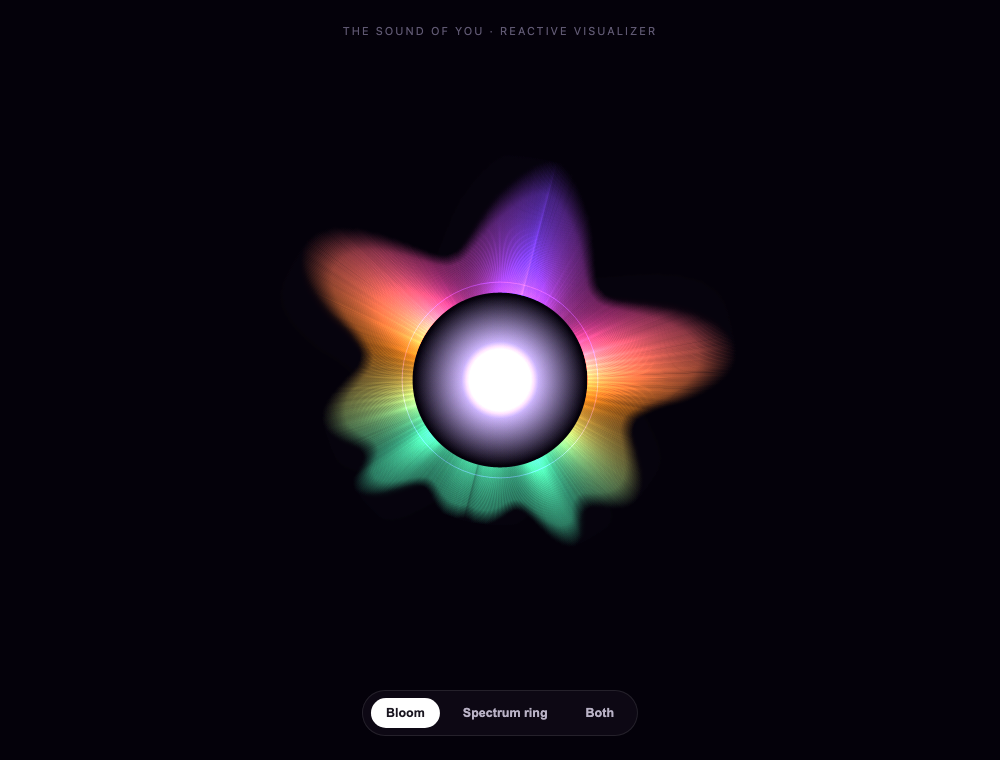
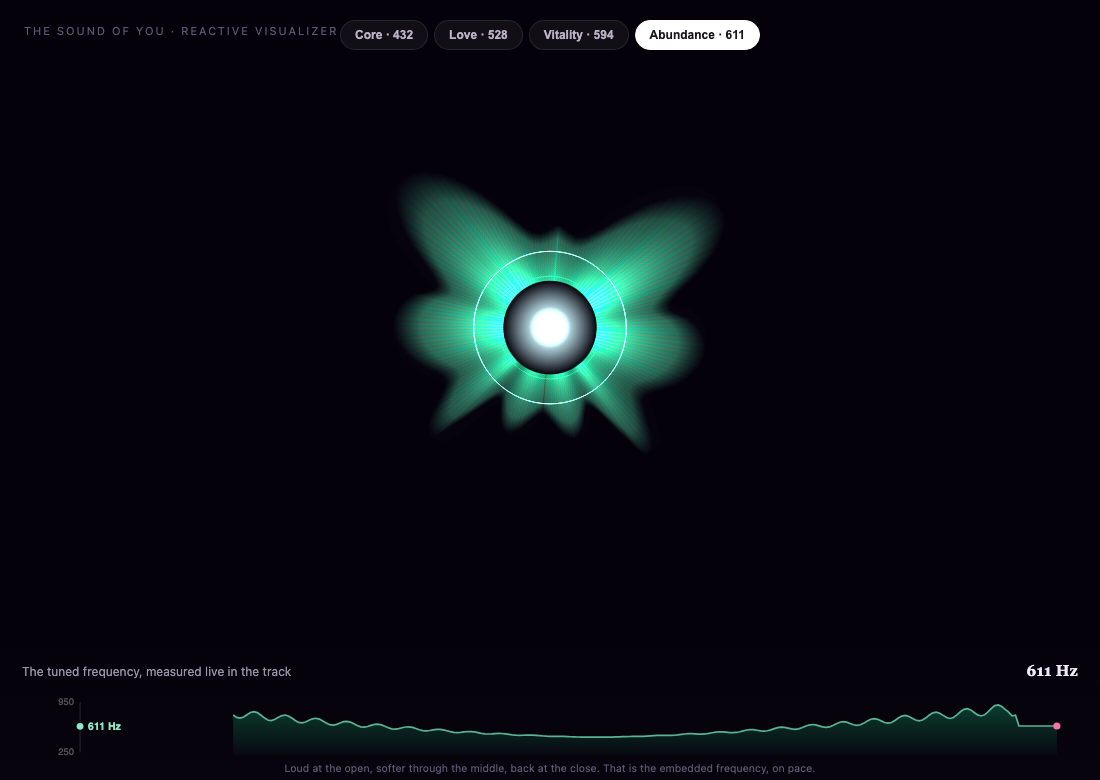
Rays v3: fine disc gains subtle per-frequency secondary glints (green + teal/gold, etc, dominant preserved); music visualizer finer + one-category-at-a-time + live tuned-frequency proof (250-950 axis, arc showing loud-soft-loud on pace)

diff --git a/explorations/rays-music.html b/explorations/rays-music.html
@@ -6,151 +6,194 @@
 <style>
 *{margin:0;padding:0;box-sizing:border-box}
 html,body{height:100%;background:#07040d;overflow:hidden;font-family:-apple-system,BlinkMacSystemFont,'Segoe UI',sans-serif}
-#c{display:block;width:100vw;height:100vh}
-.cap{position:fixed;top:24px;left:50%;transform:translateX(-50%);color:#5f5872;font-size:11px;letter-spacing:.18em;text-transform:uppercase;z-index:5}
-#start{position:fixed;inset:0;display:flex;flex-direction:column;align-items:center;justify-content:center;z-index:20;cursor:pointer;background:radial-gradient(circle at 50% 45%,rgba(30,20,44,.5),rgba(7,4,13,.9))}
+#c{display:block;width:100vw;height:100vh;position:fixed;inset:0}
+.cap{position:fixed;top:24px;left:24px;color:#5f5872;font-size:11px;letter-spacing:.18em;text-transform:uppercase;z-index:5}
+#start{position:fixed;inset:0;display:flex;flex-direction:column;align-items:center;justify-content:center;z-index:20;cursor:pointer;background:radial-gradient(circle at 50% 45%,rgba(30,20,44,.5),rgba(7,4,13,.92))}
 #start .play{width:96px;height:96px;border-radius:50%;border:1.5px solid rgba(255,255,255,.5);display:flex;align-items:center;justify-content:center;transition:.2s}
 #start:hover .play{border-color:#fff;transform:scale(1.05)}
 #start .play svg{width:34px;height:34px;fill:#fff;margin-left:5px}
 #start .t{color:#efe8f6;font-family:Georgia,serif;font-size:22px;margin-top:22px}
-#start .s{color:#8b8598;font-size:13px;margin-top:6px;letter-spacing:.02em}
-.ui{position:fixed;left:50%;bottom:24px;transform:translateX(-50%);display:flex;gap:8px;background:rgba(20,14,28,.55);backdrop-filter:blur(10px);border:1px solid rgba(255,255,255,.1);border-radius:999px;padding:7px 8px;z-index:5;opacity:0;transition:.4s}
-.ui.show{opacity:1}
-.ui button{background:transparent;border:none;color:#b9b2c6;font-size:12.5px;font-weight:600;padding:8px 15px;border-radius:999px;cursor:pointer}
-.ui button.on{background:#fff;color:#1a1620}
+#start .s{color:#8b8598;font-size:13px;margin-top:6px}
+.cats{position:fixed;top:20px;left:50%;transform:translateX(-50%);display:flex;gap:6px;z-index:6;opacity:0;transition:.4s}
+.cats.show{opacity:1}
+.cats button{background:rgba(255,255,255,.05);border:1px solid rgba(255,255,255,.1);color:#b9b2c6;font-size:12px;font-weight:600;padding:7px 14px;border-radius:999px;cursor:pointer}
+.cats button.on{background:#fff;color:#1a1620;border-color:#fff}
+/* frequency proof panel */
+#proofwrap{position:fixed;left:0;right:0;bottom:0;height:132px;z-index:6;padding:14px 22px 18px;
+  background:linear-gradient(rgba(7,4,13,0),rgba(7,4,13,.7) 40%,rgba(7,4,13,.92));opacity:0;transition:.5s}
+#proofwrap.show{opacity:1}
+.plabel{display:flex;justify-content:space-between;align-items:baseline;color:#9a93a8;font-size:12px;margin-bottom:6px}
+.plabel b{font-family:Georgia,serif;font-size:15px;color:#efe8f6}
+.plabel .hz{font-weight:700;letter-spacing:.02em}
+#proof{display:block;width:100%;height:78px}
+.note{position:fixed;bottom:6px;left:50%;transform:translateX(-50%);color:#5f5872;font-size:10.5px;z-index:6;opacity:0;transition:.5s}
+.note.show{opacity:1}
 </style></head><body>
 <canvas id="c"></canvas>
 <div class="cap">The Sound of You · reactive visualizer</div>
+<div class="cats" id="cats">
+  <button data-cat="core">Core · 432</button>
+  <button data-cat="love">Love · 528</button>
+  <button data-cat="vitality">Vitality · 594</button>
+  <button data-cat="abundance" class="on">Abundance · 611</button>
+</div>
 <div id="start">
   <div class="play"><svg viewBox="0 0 24 24"><path d="M6 4l14 8-14 8z"/></svg></div>
-  <div class="t">Play your frequencies</div>
-  <div class="s">real track · your music across the four domains</div>
+  <div class="t">Play your frequency</div>
+  <div class="s">a real track · tuned to one frequency</div>
 </div>
-<div class="ui" id="ui">
-  <button data-style="bloom" class="on">Bloom</button>
-  <button data-style="spectrum">Spectrum ring</button>
-  <button data-style="both">Both</button>
+<div id="proofwrap">
+  <div class="plabel"><span>The tuned frequency, measured live in the track</span><b class="hz" id="hzlab">611 Hz</b></div>
+  <canvas id="proof"></canvas>
 </div>
+<div class="note" id="note">Loud at the open, softer through the middle, back at the close. That is the embedded frequency, on pace.</div>
 <script>
+const PAL={
+  core:{dom:['#6521C9','#A737C8'],sec:[['#7A4AE0','#B98AF0'],['#C24FA8','#E07AC8']],hz:432,name:'Astrolith'},
+  love:{dom:['#B90044','#CF4090'],sec:[['#E8663E','#F0A070'],['#D8489A','#EE8CC0']],hz:528,name:'Elysian Surge'},
+  vitality:{dom:['#FF9112','#FFC251'],sec:[['#F0592E','#F59060'],['#FFD37A','#FFE7B0']],hz:594,name:'Quiet Success'},
+  abundance:{dom:['#12A56E','#46D99A'],sec:[['#15B8A6','#5FE0D2'],['#D9B45A','#F0D28A']],hz:611,name:'Kindred Spirits'}
+};
+let cat='abundance';
 const cv=document.getElementById('c'),x=cv.getContext('2d');
-let W,H,DPR;
-function size(){DPR=Math.min(devicePixelRatio||1,2);W=cv.width=innerWidth*DPR;H=cv.height=innerHeight*DPR;cv.style.width=innerWidth+'px';cv.style.height=innerHeight+'px';}
+const pf=document.getElementById('proof'),px=pf.getContext('2d');
+let W,H,DPR,PW,PH;
+function size(){DPR=Math.min(devicePixelRatio||1,2);
+  W=cv.width=innerWidth*DPR;H=cv.height=innerHeight*DPR;cv.style.width=innerWidth+'px';cv.style.height=innerHeight+'px';
+  PW=pf.width=pf.clientWidth*DPR;PH=pf.height=pf.clientHeight*DPR;}
 size();addEventListener('resize',size);
-
-// four frequency colours (bright ends for glow on black) mapped to the four spectral bands
-const BANDS=[[103,55,201],[220,64,144],[255,145,18],[70,217,154]]; // Core, Love, Vitality, Abundance
+function hx(h){h=h.replace('#','');return [parseInt(h.slice(0,2),16),parseInt(h.slice(2,4),16),parseInt(h.slice(4,6),16)];}
 function mix(a,b,t){return a.map((v,i)=>v+(b[i]-v)*t);}
-function bandColor(p){ const f=p*4, i=Math.min(3,Math.floor(f)), t=f-i; return mix(BANDS[i],BANDS[Math.min(3,i+1)],t); }
 function rgba(c,a){return `rgba(${c[0]|0},${c[1]|0},${c[2]|0},${a})`;}
 
-let style='bloom';
-document.querySelectorAll('[data-style]').forEach(b=>b.onclick=()=>{style=b.dataset.style;
-  document.querySelectorAll('[data-style]').forEach(o=>o.classList.toggle('on',o===b));});
-
 // ---- audio ----
-let an, freqData, timeData, playing=false, fake=false, t0=performance.now();
-const NB=512; // bins we visualise
+let an, freqData, timeData, playing=false, fake=false, t0=performance.now(), sampleRate=44100;
+const NB=640;
+let targetHist=new Float32Array(240), thi=0;   // rolling history of the tuned-frequency level
 function startAudio(){
-  const AC=window.AudioContext||window.webkitAudioContext;
-  const ac=new AC();
-  const audio=new Audio('../inapp/elysian-sky-600hz.mp3');
-  audio.crossOrigin='anonymous'; audio.loop=true;
-  const srcN=ac.createMediaElementSource(audio);
-  an=ac.createAnalyser(); an.fftSize=2048; an.smoothingTimeConstant=0.82;
-  srcN.connect(an); an.connect(ac.destination);
-  freqData=new Uint8Array(an.frequencyBinCount); timeData=new Uint8Array(an.fftSize);
-  ac.resume();
-  audio.play().then(()=>{playing=true;}).catch(()=>{startFake();});
-  audio.onerror=startFake;
+  try{
+    const AC=window.AudioContext||window.webkitAudioContext; const ac=new AC(); sampleRate=ac.sampleRate;
+    const audio=new Audio('../inapp/'+ (cat==='abundance'?'elysian-sky-600hz.mp3':'elysian-sky-600hz.mp3'));
+    audio.crossOrigin='anonymous'; audio.loop=true;
+    const srcN=ac.createMediaElementSource(audio);
+    an=ac.createAnalyser(); an.fftSize=4096; an.smoothingTimeConstant=0.8;
+    srcN.connect(an); an.connect(ac.destination);
+    freqData=new Uint8Array(an.frequencyBinCount); timeData=new Uint8Array(an.fftSize);
+    ac.resume(); audio.play().then(()=>playing=true).catch(startFake); audio.onerror=startFake;
+  }catch(e){ startFake(); }
 }
-function startFake(){ // graceful demo if audio can't load
-  fake=true; playing=true;
-  freqData=new Uint8Array(NB); timeData=new Uint8Array(NB);
-}
+function startFake(){ fake=true; playing=true; freqData=new Uint8Array(NB); timeData=new Uint8Array(NB); }
 function readFake(){
-  const tt=(performance.now()-t0)/1000;
-  const beat=0.6+0.4*Math.max(0,Math.sin(tt*2.2));
-  for(let i=0;i<NB;i++){
-    const f=i/NB;
-    let v=150*Math.exp(-f*2.2)*(0.55+0.45*Math.sin(tt*3+f*18)); // full but bass-leaning
-    v+=90*Math.exp(-Math.abs(f-0.35)*7)*(0.5+0.5*Math.sin(tt*5+f*22));
+  const tt=(performance.now()-t0)/1000; const beat=0.6+0.4*Math.max(0,Math.sin(tt*2.2));
+  for(let i=0;i<NB;i++){ const f=i/NB;
+    let v=150*Math.exp(-f*2.4)*(0.55+0.45*Math.sin(tt*3+f*18));
+    v+=95*Math.exp(-Math.abs(f-0.34)*7)*(0.5+0.5*Math.sin(tt*5+f*22));
     v+=70*Math.exp(-Math.abs(f-0.7)*9)*(0.5+0.5*Math.sin(tt*8-f*30));
-    v*=beat;
-    freqData[i]=Math.min(255,v);
+    v*=beat; freqData[i]=Math.min(255,v);
     timeData[i]=128+80*Math.sin(tt*6+i*0.35)*Math.exp(-i/NB*1.4);
   }
 }
-document.getElementById('start').onclick=function(){ this.style.display='none'; document.getElementById('ui').classList.add('show'); startAudio(); };
-if(new URLSearchParams(location.search).has('demo')){ document.getElementById('start').style.display='none'; document.getElementById('ui').classList.add('show'); startFake(); }
-
-function sample(arr,n){ // resample lower part of spectrum (where music lives) into n bins, sqrt-spaced
-  const out=new Float32Array(n); const src=fake?arr.length:Math.floor(arr.length*0.55);
-  for(let i=0;i<n;i++){ const p=Math.pow(i/n,1.35); const idx=Math.min(arr.length-1,Math.floor(p*src)); out[i]=arr[idx]/255; }
-  return out;
+// the tuned-frequency level: real = amplitude at the target bin; fake = the U-shaped arc
+function targetLevel(){
+  if(fake){ const songT=((performance.now()-t0)/1000)%26/26;   // 26s demo loop
+    const U=0.35+0.65*Math.pow(Math.abs(songT-0.5)*2,1.6);      // loud ends, soft middle
+    return Math.min(1,U*(0.7+0.3*Math.max(0,Math.sin((performance.now()-t0)/1000*3)))); }
+  const hz=PAL[cat].hz; const bin=Math.round(hz/(sampleRate/2)*freqData.length);
+  let s=0,n=0; for(let k=-2;k<=2;k++){const b=bin+k; if(b>=0&&b<freqData.length){s+=freqData[b];n++;}}
+  return (s/Math.max(1,n))/255;
 }
-let rot=0, smoothBass=0;
+document.getElementById('start').onclick=function(){ this.style.display='none';
+  document.getElementById('cats').classList.add('show'); document.getElementById('proofwrap').classList.add('show'); document.getElementById('note').classList.add('show');
+  startAudio(); };
+if(new URLSearchParams(location.search).has('demo')){ document.getElementById('start').style.display='none';
+  ['cats','proofwrap','note'].forEach(id=>document.getElementById(id).classList.add('show')); startFake();
+  for(let i=0;i<targetHist.length;i++){ const s=i/(targetHist.length-1); targetHist[i]=0.32+0.6*Math.pow(Math.abs(s-0.5)*2,1.5)*(0.85+0.15*Math.sin(i*0.7)); } thi=0; }
+document.querySelectorAll('[data-cat]').forEach(b=>b.onclick=()=>{cat=b.dataset.cat;
+  document.querySelectorAll('[data-cat]').forEach(o=>o.classList.toggle('on',o===b));
+  document.getElementById('hzlab').textContent=PAL[cat].hz+' Hz';});
+
+function sample(arr,n){ const out=new Float32Array(n); const src=fake?arr.length:Math.floor(arr.length*0.5);
+  for(let i=0;i<n;i++){ const p=Math.pow(i/n,1.35); out[i]=arr[Math.min(arr.length-1,Math.floor(p*src))]/255; } return out; }
+
+let rot=0, smoothBass=0, frameC=0;
 function frame(){
-  x.fillStyle='rgba(7,4,13,0.30)'; x.fillRect(0,0,W,H); // motion trails
+  x.fillStyle='rgba(7,4,13,0.32)'; x.fillRect(0,0,W,H);
   if(playing){
     if(fake) readFake(); else an.getByteFrequencyData(freqData);
-    const cx=W/2, cy=H/2, base=Math.min(W,H);
-    const spec=sample(freqData, NB);
+    const cx=W/2, cy=H*0.42, base=Math.min(W,H);
+    const P=PAL[cat], dom0=hx(P.dom[0]),dom1=hx(P.dom[1]);
+    const s0a=hx(P.sec[0][0]),s0b=hx(P.sec[0][1]),s1a=hx(P.sec[1][0]),s1b=hx(P.sec[1][1]);
+    const spec=sample(freqData,NB);
     let bass=0; for(let i=0;i<24;i++) bass+=spec[i]; bass/=24; smoothBass+=(bass-smoothBass)*0.2;
-    rot += 0.0014 + smoothBass*0.016;
+    rot+=0.0011+smoothBass*0.014;
+    const tgt=targetLevel();
+    // record target history for the proof trace
+    if(frameC++%3===0){ targetHist[thi%targetHist.length]=tgt; thi++; }
+
     x.globalCompositeOperation='lighter';
-
-    const r0=base*0.115;
-    // faint base ring so there is always a disc silhouette
-    x.strokeStyle=rgba(BANDS[0],0.12); x.lineWidth=Math.max(1,base*0.001);
-    x.beginPath(); x.arc(cx,cy,r0*1.12,0,7); x.stroke();
-
-    if(style==='bloom'||style==='both'){
-      // symmetric reactive star: bass at the poles, treble to the sides, mirrored L/R
-      const half=NB;
-      for(let i=0;i<half;i++){
-        const frac=i/half;                 // 0 (bass) .. 1 (treble)
-        const amp=spec[i];
-        const col=bandColor(frac);
-        const len=r0 + base*(0.05 + 0.40*amp);
-        for(const s of [1,-1]){
-          const a=-Math.PI/2 + s*frac*Math.PI + rot;   // top pole -> down each side
-          const x1=cx+Math.cos(a)*r0, y1=cy+Math.sin(a)*r0;
-          const x2=cx+Math.cos(a)*len, y2=cy+Math.sin(a)*len;
-          const g=x.createLinearGradient(x1,y1,x2,y2);
-          g.addColorStop(0,rgba(col,0.10+0.55*amp)); g.addColorStop(0.75,rgba(col,0.10+0.25*amp)); g.addColorStop(1,rgba(col,0));
-          x.strokeStyle=g; x.lineWidth=Math.max(0.7,base*0.0015);
-          x.beginPath(); x.moveTo(x1,y1); x.lineTo(x2,y2); x.stroke();
-          if(amp>0.6){ x.fillStyle=rgba(mix(col,[255,255,255],0.45),(amp-0.6)*0.8);
-            x.beginPath(); x.arc(x2,y2,base*0.002,0,7); x.fill(); }
-        }
+    const r0=base*0.06;
+    // base ring
+    x.strokeStyle=rgba(dom0,0.12); x.lineWidth=Math.max(1,base*0.0008);
+    x.beginPath(); x.arc(cx,cy,r0*1.1,0,7); x.stroke();
+    // finer symmetric reactive star: category-dominant with a few secondary glints
+    const half=NB;
+    for(let i=0;i<half;i++){
+      const frac=i/half, amp=spec[i];
+      let cA=dom0,cB=dom1,mul=1;
+      if(i%7===0){cA=s0a;cB=s0b;mul=0.75;} else if(i%11===0){cA=s1a;cB=s1b;mul=0.75;}
+      const len=r0+base*(0.04+0.37*amp);
+      for(const s of [1,-1]){
+        const a=-Math.PI/2+s*frac*Math.PI+rot;
+        const x1=cx+Math.cos(a)*r0,y1=cy+Math.sin(a)*r0,x2=cx+Math.cos(a)*len,y2=cy+Math.sin(a)*len;
+        const g=x.createLinearGradient(x1,y1,x2,y2);
+        g.addColorStop(0,rgba(cA,(0.09+0.5*amp)*mul)); g.addColorStop(0.75,rgba(cB,(0.06+0.22*amp)*mul)); g.addColorStop(1,rgba(cB,0));
+        x.strokeStyle=g; x.lineWidth=Math.max(0.6,base*0.0011);   // finer
+        x.beginPath(); x.moveTo(x1,y1); x.lineTo(x2,y2); x.stroke();
+        if(amp>0.62){ x.fillStyle=rgba(mix(cB,[255,255,255],0.4),(amp-0.62)*0.7); x.beginPath(); x.arc(x2,y2,base*0.0016,0,7); x.fill(); }
       }
     }
-    if(style==='spectrum'||style==='both'){
-      if(!fake) an.getByteTimeDomainData(timeData);
-      const RR=base*(0.28+0.06*smoothBass); const steps=200; const L=fake?NB:timeData.length;
-      x.beginPath();
-      for(let i=0;i<=steps;i++){
-        const a=i/steps*Math.PI*2 + rot*0.5;
-        const ti=Math.floor(i/steps*L)%L;
-        const w=(timeData[ti]-128)/128;
-        const rr=RR*(1+0.18*w);
-        const px=cx+Math.cos(a)*rr, py=cy+Math.sin(a)*rr;
-        i?x.lineTo(px,py):x.moveTo(px,py);
-      }
-      x.closePath();
-      x.strokeStyle=rgba(mix(BANDS[3],[255,255,255],0.3),0.55); x.lineWidth=Math.max(1,base*0.0016); x.stroke();
-      x.strokeStyle=rgba(BANDS[0],0.3); x.lineWidth=Math.max(1,base*0.001); x.stroke();
-    }
-
-    // tight jewel core (bass) — small, not a white wash
-    const cr=base*(0.028+0.05*smoothBass);
-    const cg=x.createRadialGradient(cx,cy,0,cx,cy,cr*2.6);
-    const cc=mix([240,232,255],BANDS[0],0.3);
+    // a subtle inner ring hugging the core, brightening with the tuned-frequency level (proof, in the art)
+    const tr=r0*(1.5+0.25*tgt);
+    x.strokeStyle=rgba(mix(dom1,[255,255,255],0.45),0.12+0.5*tgt); x.lineWidth=Math.max(1,base*0.0012);
+    x.beginPath(); x.arc(cx,cy,tr,0,7); x.stroke();
+    // tight core
+    const cr=base*(0.02+0.04*smoothBass);
+    const cg=x.createRadialGradient(cx,cy,0,cx,cy,cr*2.6); const cc=mix([240,232,255],dom0,0.3);
     cg.addColorStop(0,rgba(cc,0.95)); cg.addColorStop(0.45,rgba(cc,0.3)); cg.addColorStop(1,rgba(cc,0));
     x.fillStyle=cg; x.beginPath(); x.arc(cx,cy,cr*2.6,0,7); x.fill();
     x.globalCompositeOperation='source-over';
+    drawProof(P);
   }
   requestAnimationFrame(frame);
+}
+// the app-style proof: 250-950 axis on the left with the target tick highlighted, and a live trace of the tuned frequency over time
+function drawProof(P){
+  px.clearRect(0,0,PW,PH);
+  const dom0=hx(P.dom[0]),dom1=hx(P.dom[1]);
+  // left: a small 250-950 pitch scale showing WHERE the tuned frequency sits (echoes the app)
+  const axX=PW*0.055, lo=250,hi=950, yFor=v=>PH*0.86-(v-lo)/(hi-lo)*PH*0.64;
+  px.strokeStyle='rgba(255,255,255,.14)'; px.lineWidth=DPR;
+  px.beginPath(); px.moveTo(axX,yFor(hi)); px.lineTo(axX,yFor(lo)); px.stroke();
+  px.fillStyle='rgba(255,255,255,.30)'; px.font=(9.5*DPR)+'px -apple-system,sans-serif'; px.textAlign='right';
+  [250,950].forEach(v=>px.fillText(v,axX-6*DPR,yFor(v)+3*DPR));
+  const ty=yFor(P.hz);   // target tick on the pitch scale
+  px.fillStyle=rgba(mix(dom1,[255,255,255],0.4),1); px.beginPath(); px.arc(axX,ty,3.4*DPR,0,7); px.fill();
+  px.font=('700 '+(10.5*DPR)+'px -apple-system,sans-serif'); px.textAlign='left';
+  px.fillText(P.hz+' Hz',axX+8*DPR,ty+3.5*DPR);
+  // main: the tuned frequency's LEVEL over the song timeline (loud ends, soft middle = the arc)
+  const gx0=PW*0.20, gw=PW-gx0-PW*0.02, yB=PH*0.9;
+  const n=targetHist.length;
+  px.beginPath(); px.moveTo(gx0,yB);
+  for(let i=0;i<n;i++){ const lvl=targetHist[(thi+i)%n]; px.lineTo(gx0+i/(n-1)*gw, yB-lvl*PH*0.72); }
+  px.lineTo(gx0+gw,yB); px.closePath();
+  const fg=px.createLinearGradient(0,yB-PH*0.72,0,yB); fg.addColorStop(0,rgba(dom0,0.4)); fg.addColorStop(1,rgba(dom0,0.03));
+  px.fillStyle=fg; px.fill();
+  px.beginPath();
+  for(let i=0;i<n;i++){ const lvl=targetHist[(thi+i)%n]; const gx=gx0+i/(n-1)*gw, gy=yB-lvl*PH*0.72; i?px.lineTo(gx,gy):px.moveTo(gx,gy); }
+  px.strokeStyle=rgba(mix(dom0,[255,255,255],0.35),0.9); px.lineWidth=1.7*DPR; px.stroke();
+  // playing-now dot (pink)
+  const cur=targetHist[(thi-1+n)%n], gy=yB-cur*PH*0.72;
+  px.fillStyle='rgba(255,120,180,0.95)'; px.beginPath(); px.arc(gx0+gw,gy,3.6*DPR,0,7); px.fill();
 }
 requestAnimationFrame(frame);
 </script>

diff --git a/explorations/rays-fine.html b/explorations/rays-fine.html
@@ -43,6 +43,13 @@ canvas{display:block}
 
 <script>
 const FR={core:['#6521C9','#A737C8'],love:['#B90044','#CF4090'],vitality:['#FF9112','#FFC251'],abundance:['#12A56E','#46D99A']};
+// one or two subtle secondary hues per frequency — woven into a few rays only, so it stays dominant
+const SEC={
+  core:[['#7A4AE0','#B98AF0'],['#C24FA8','#E07AC8']],       // indigo glint, magenta glint
+  love:[['#E8663E','#F0A070'],['#D8489A','#EE8CC0']],       // coral glint, magenta glint
+  vitality:[['#F0592E','#F59060'],['#FFD37A','#FFE7B0']],   // coral glint, gold glint
+  abundance:[['#15B8A6','#5FE0D2'],['#D9B45A','#F0D28A']]   // teal glint, gold glint
+};
 const LAB={core:'Core',love:'Love',vitality:'Vitality',abundance:'Abundance'};
 let freq='abundance', t0=performance.now();
 function hx(h){h=h.replace('#','');return [parseInt(h.slice(0,2),16),parseInt(h.slice(2,4),16),parseInt(h.slice(4,6),16)];}
@@ -73,6 +80,7 @@ function drawDisc(cv, dark){
   if(!dark){ const tg=x.createRadialGradient(cx,cy,r0,cx,cy,R*0.9);
     tg.addColorStop(0,rgba(en,0.10)); tg.addColorStop(1,rgba(en,0));
     x.fillStyle=tg; x.beginPath(); x.arc(cx,cy,R,0,7); x.fill(); }
+  const s0a=hx(SEC[freq][0][0]),s0b=hx(SEC[freq][0][1]),s1a=hx(SEC[freq][1][0]),s1b=hx(SEC[freq][1][1]);
   x.lineCap='round';
   x.globalCompositeOperation = dark ? 'lighter' : 'source-over';
   for(let i=0;i<N;i++){
@@ -82,10 +90,13 @@ function drawDisc(cv, dark){
     const x1=cx+Math.cos(a)*r0, y1=cy+Math.sin(a)*r0;
     const x2=cx+Math.cos(a)*len, y2=cy+Math.sin(a)*len;
     const g=x.createLinearGradient(x1,y1,x2,y2);
-    const c1=dark?mix(pr,en,0.2):pr, c2=en;
-    const aOut = dark?0:0.0;
-    g.addColorStop(0, rgba(c1, dark?0.55:1));
-    g.addColorStop(0.7, rgba(c2, dark?0.35:0.7));
+    // mostly dominant; roughly one ray in six carries a faint secondary glint
+    let cA=pr, cB=en, mul=1;
+    if(i%6===0){ cA=s0a; cB=s0b; mul=0.72; }
+    else if(i%9===0){ cA=s1a; cB=s1b; mul=0.72; }
+    const c1=dark?mix(cA,cB,0.2):cA, c2=cB;
+    g.addColorStop(0, rgba(c1, (dark?0.55:1)*mul));
+    g.addColorStop(0.7, rgba(c2, (dark?0.35:0.7)*mul));
     g.addColorStop(1, rgba(c2, 0));
     x.strokeStyle=g;
     x.lineWidth = Math.max(0.7, W/720*1.25);   // hairline, scales with canvas